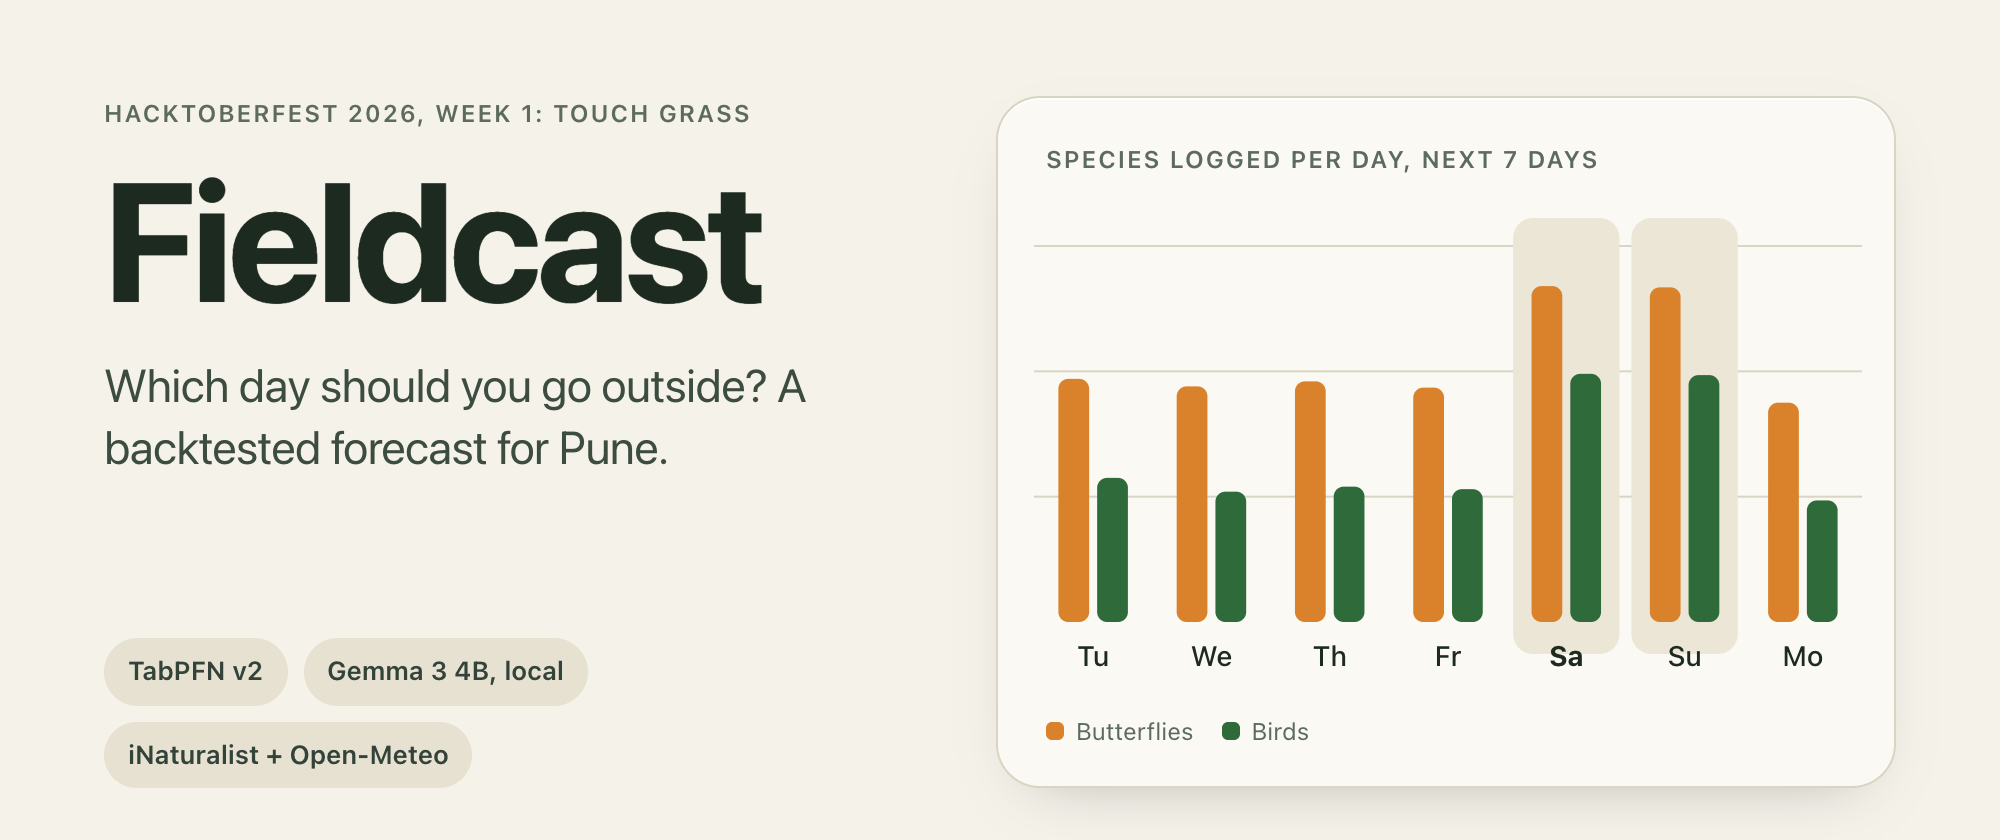
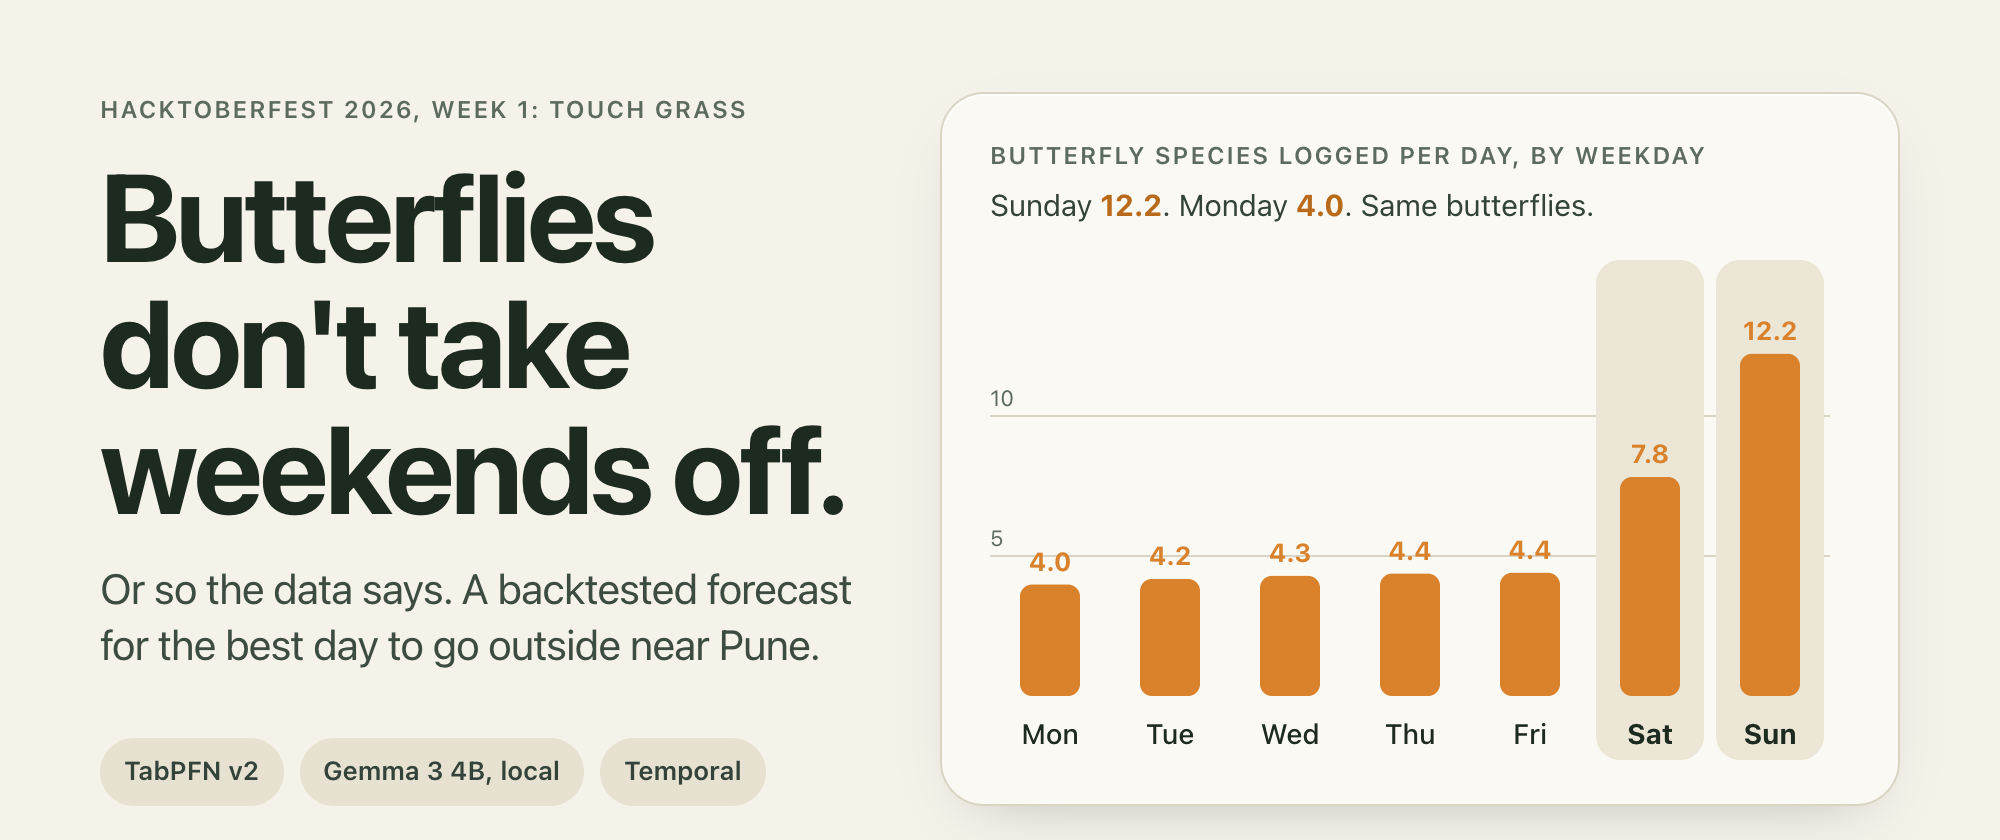
Add Temporal workflow, weekend ablation, Sentry-optional tracing and updated card

diff --git a/card.html b/card.html
@@ -15,9 +15,7 @@ small{color:var(--mute);display:block;margin-top:1.5rem}
 </style><main>
 <h1>Saturday, 10-10</h1>
 <p class=sub>Best day this week near Pune. Max 34.8 C, rain 0.0 mm.</p>
-<p class=card>Saturday, October 10th, 2026 will be warm with a high of 34.8 degrees Celsius. Focus your attention on observing butterflies, particularly the Lemon Migrant, Lemon Pansy, Common Mormon Swallowtail, and Red Pierrot.  Begin by searching for butterflies and then observe the diverse birdlife expected by local observers. 
-
-Remember to disconnect and fully immerse yourself in the natural surroundings.</p>
+<p class=card>Saturday, October 10th, 2026, promises warm weather with a maximum temperature of 34.8 degrees Celsius and no rain. Focus your attention on observing the most frequently reported butterflies, starting with the Lemon Migrant, followed by the Lemon Pansy and Common Mormon Swallowtail. Remember to disconnect from your devices and fully immerse yourself in the natural surroundings.</p>
 <p><b>Likely to be seen:</b> Lemon Migrant (97%), Lemon Pansy (87%), Common Mormon Swallowtail (77%), Red Pierrot (66%)</p>
 <table><tr><th>Day<th>Max C<th>Rain mm<th>Butterfly spp<th>Bird spp</tr><tr><td>Tue 10-06</td><td>33.3</td><td>0.2</td><td>19</td><td>12</td></tr><tr><td>Wed 10-07</td><td>33.6</td><td>0.0</td><td>19</td><td>10</td></tr><tr><td>Thu 10-08</td><td>33.0</td><td>1.2</td><td>19</td><td>11</td></tr><tr><td>Fri 10-09</td><td>34.9</td><td>0.0</td><td>19</td><td>11</td></tr><tr><td>Sat 10-10</td><td>34.8</td><td>0.0</td><td>27</td><td>20</td></tr><tr><td>Sun 10-11</td><td>34.1</td><td>0.0</td><td>27</td><td>20</td></tr><tr><td>Mon 10-12</td><td>33.4</td><td>0.0</td><td>18</td><td>10</td></tr></table>
 <small>Forecast 2026-10-06. TabPFN trained on iNaturalist research-grade sightings and Open-Meteo weather; prose by Gemma running locally. Probabilities are chances a species is logged that day, not guarantees.</small>

diff --git a/card.py b/card.py
@@ -3,10 +3,29 @@ local Gemma (Ollama) only writes the prose around them, so it cannot invent a fo
 Run: .venv/bin/python card.py  -> card.html"""
 import html
 import json
+import re
+import sys
 
 import requests
+import sentry_sdk
+
+import tracing
 
 MODEL = "gemma3:4b"
+TRIES = 5
+PROMPT = ("You write a pocket field card for a nature walk near Pune, India. Use ONLY the facts below. "
+          "Do not add numbers, species or places that are not listed. No emojis, no markdown, no em dashes. "
+          "Write 3 short sentences: why this day, what to look for and in what order, then one reminder to put the phone away.\n")
+
+
+def likely_for(d):
+    return ", ".join(f"{k} ({round(v * 100)}%)" for k, v in d["likely"].items())
+
+
+def facts_for(d):
+    return (f"Day: {d['weekday']} {d['date']}. Max temperature {d['tmax']} C. Rain {d['rain_mm']} mm.\n"
+            f"Model expects about {d['butterfly_species']:.0f} butterfly species and {d['bird_species']:.0f} bird species logged today by local observers.\n"
+            f"Most likely to be logged: {likely_for(d)}.")
 
 
 def best(days):
@@ -15,24 +34,70 @@ def best(days):
 
 
 def gemma(prompt):
-    r = requests.post("http://localhost:11434/api/generate", timeout=300,
-                      json={"model": MODEL, "prompt": prompt, "stream": False, "options": {"temperature": 0.4, "num_predict": 220}})
-    r.raise_for_status()
-    return r.json()["response"].strip()
+    with sentry_sdk.start_span(op="gen_ai.chat", name=f"chat {MODEL}") as span:
+        for k, v in {"gen_ai.operation.name": "chat", "gen_ai.system": "ollama", "gen_ai.request.model": MODEL,
+                     "gen_ai.request.temperature": 0.4, "gen_ai.request.messages": json.dumps([{"role": "user", "content": prompt}])}.items():
+            span.set_data(k, v)
+        r = requests.post("http://localhost:11434/api/generate", timeout=300,
+                          json={"model": MODEL, "prompt": prompt, "stream": False, "options": {"temperature": 0.4, "num_predict": 220}})
+        r.raise_for_status()
+        j = r.json()
+        text = j["response"].strip()
+        span.set_data("gen_ai.usage.input_tokens", j["prompt_eval_count"])
+        span.set_data("gen_ai.usage.output_tokens", j["eval_count"])
+        span.set_data("gen_ai.usage.total_tokens", j["prompt_eval_count"] + j["eval_count"])
+        span.set_data("gen_ai.response.text", json.dumps([text]))
+        span.set_data("fieldcast.tokens_per_second", round(j["eval_count"] / (j["eval_duration"] / 1e9), 1))
+        return text
+
+
+def problems(text, facts):
+    """Rules the card must satisfy: no number Gemma was not given, exactly three sentences."""
+    with sentry_sdk.start_span(op="gen_ai.execute_tool", name="execute_tool check_card") as span:
+        out = []
+        bad = sorted(set(re.findall(r"\d+(?:\.\d+)?", text)) - set(re.findall(r"\d+(?:\.\d+)?", facts)))
+        if bad:
+            out.append(f"invented numbers {bad}")
+        n = len(re.findall(r"[.!?](?:\s|$)", text))
+        if n != 3:
+            out.append(f"{n} sentences")
+        span.set_data("gen_ai.tool.name", "check_card")
+        span.set_data("gen_ai.tool.output", json.dumps(out))
+        return out
+
+
+def write(d, facts, likely):
+    """Ask Gemma, reject a card that breaks the rules, retry, then fall back to a plain template."""
+    prompt = PROMPT + facts
+    for attempt in range(1, TRIES + 1):
+        text = gemma(prompt)
+        bad = problems(text, facts)
+        if not bad:
+            return text
+        sentry_sdk.capture_message(f"Gemma card rejected: {bad} (attempt {attempt}/{TRIES})", level="warning")
+    return (f"{d['weekday']} looks best this week: {d['tmax']} C and {d['rain_mm']} mm of rain. "
+            f"Look for {likely.split(',')[0].split(' (')[0]} first. Put the phone away and go.")
+
+
+def bench(n):
+    """Run Gemma n times on this week's facts with no retry and count how often each rule is broken."""
+    d = best(json.load(open("forecast.json"))["days"])
+    facts = facts_for(d)
+    broke = {"invented numbers": 0, "sentences": 0}
+    for i in range(n):
+        out = problems(gemma(PROMPT + facts), facts)
+        for k in broke:
+            broke[k] += any(p.startswith(k) or (k == "sentences" and "sentences" in p) for p in out)
+        print(i + 1, out or "clean", flush=True)
+    print(f"of {n} runs: {broke}")
 
 
 def main():
     f = json.load(open("forecast.json"))
     d = best(f["days"])
-    likely = ", ".join(f"{k} ({round(v * 100)}%)" for k, v in d["likely"].items())
-    prompt = (
-        "You write a pocket field card for a nature walk near Pune, India. Use ONLY the facts below. "
-        "Do not add numbers, species or places that are not listed. No emojis, no markdown, no em dashes. "
-        "Write 3 short sentences: why this day, what to look for and in what order, then one reminder to put the phone away.\n"
-        f"Day: {d['weekday']} {d['date']}. Max temperature {d['tmax']} C. Rain {d['rain_mm']} mm.\n"
-        f"Model expects about {d['butterfly_species']:.0f} butterfly species and {d['bird_species']:.0f} bird species logged today by local observers.\n"
-        f"Most likely to be logged: {likely}.")
-    text = gemma(prompt)
+    likely = likely_for(d)
+    with sentry_sdk.start_transaction(name="invoke_agent fieldcast-card", op="gen_ai.invoke_agent"):
+        text = write(d, facts_for(d), likely)
     rows = "".join(f"<tr><td>{x['weekday'][:3]} {x['date'][5:]}</td><td>{x['tmax']}</td><td>{x['rain_mm']}</td>"
                    f"<td>{x['butterfly_species']:.0f}</td><td>{x['bird_species']:.0f}</td></tr>" for x in f["days"])
     page = f"""<!doctype html><meta charset=utf-8><meta name=viewport content="width=device-width,initial-scale=1">
@@ -59,7 +124,10 @@ small{{color:var(--mute);display:block;margin-top:1.5rem}}
 </main>"""
     open("card.html", "w").write(page)
     print(text)
+    return "card.html"
 
 
 if __name__ == "__main__":
-    main()
+    tracing.init()
+    bench(int(sys.argv[2])) if sys.argv[1:2] == ["--bench"] else main()
+    sentry_sdk.flush()

diff --git a/workflow.py b/workflow.py
@@ -1,0 +1,103 @@
+"""Durable Fieldcast pipeline on Temporal: fetch -> (backtest) -> forecast -> card.
+Each step is an activity with retries; the iNaturalist fetch heartbeats and resumes from its page checkpoint.
+Run:  temporal server start-dev                 (terminal 1, UI at http://localhost:8233)
+      .venv/bin/python workflow.py worker       (terminal 2)
+      .venv/bin/python workflow.py run          (terminal 3; add --backtest to rerun the held-out year)"""
+import asyncio
+import sys
+from datetime import timedelta
+
+from temporalio import activity, workflow
+from temporalio.client import Client
+from temporalio.common import RetryPolicy
+from temporalio.worker import Worker
+
+with workflow.unsafe.imports_passed_through():
+    import pandas as pd
+    import tracing
+
+QUEUE = "fieldcast"
+GROUPS = {"butterfly": 47224, "bird": 3}  # iNaturalist taxon ids: Papilionoidea, Aves
+
+
+async def beat(fn, *args):
+    """Run blocking code in a thread and heartbeat until it ends, so Temporal can tell a slow step from a dead one."""
+    task = asyncio.create_task(asyncio.to_thread(fn, *args))
+    while not task.done():
+        activity.heartbeat()
+        await asyncio.wait({task}, timeout=10)
+    return task.result()
+
+
+@activity.defn
+async def fetch_obs(group: str) -> int:
+    import fetch
+    rows = await beat(fetch.observations, GROUPS[group], group)
+    pd.DataFrame(rows, columns=["id", "date", "sci", "common", "group"]).to_parquet(fetch.OUT / f"obs_{group}.parquet", index=False)
+    return len(rows)
+
+
+@activity.defn
+async def fetch_weather() -> int:
+    import fetch
+    w = await beat(fetch.weather)
+    w.to_parquet(fetch.OUT / "weather.parquet", index=False)
+    return len(w)
+
+
+@activity.defn
+async def merge_obs() -> int:
+    import fetch
+    obs = pd.concat([pd.read_parquet(fetch.OUT / f"obs_{g}.parquet") for g in GROUPS])
+    obs["date"] = pd.to_datetime(obs["date"])
+    obs.to_parquet(fetch.OUT / "obs.parquet", index=False)
+    return len(obs)
+
+
+@activity.defn
+async def run_backtest() -> str:
+    import model
+    await beat(model.backtest)
+    return "metrics.json"
+
+
+@activity.defn
+async def run_forecast() -> str:
+    import model
+    await beat(model.forecast)
+    return "forecast.json"
+
+
+@activity.defn
+async def make_card() -> str:
+    import card
+    return await beat(card.main)
+
+
+@workflow.defn
+class Fieldcast:
+    @workflow.run
+    async def run(self, backtest: bool = False) -> str:
+        step = dict(start_to_close_timeout=timedelta(hours=1), heartbeat_timeout=timedelta(minutes=2),
+                    retry_policy=RetryPolicy(initial_interval=timedelta(seconds=5), backoff_coefficient=2, maximum_attempts=8))
+        await asyncio.gather(*[workflow.execute_activity(fetch_obs, g, **step) for g in GROUPS],
+                             workflow.execute_activity(fetch_weather, **step))
+        await workflow.execute_activity(merge_obs, **step)
+        if backtest:
+            await workflow.execute_activity(run_backtest, **step)
+        await workflow.execute_activity(run_forecast, **step)
+        return await workflow.execute_activity(make_card, **step)
+
+
+async def main():
+    client = await Client.connect("localhost:7233")
+    if sys.argv[1] == "worker":
+        tracing.init()
+        await Worker(client, task_queue=QUEUE, workflows=[Fieldcast],
+                     activities=[fetch_obs, fetch_weather, merge_obs, run_backtest, run_forecast, make_card]).run()
+    else:
+        print(await client.execute_workflow(Fieldcast.run, "--backtest" in sys.argv, id="fieldcast", task_queue=QUEUE))
+
+
+if __name__ == "__main__":
+    asyncio.run(main())

diff --git a/fetch.py b/fetch.py
@@ -1,5 +1,6 @@
 """Pull research-grade iNaturalist observations near Pune and daily weather from Open-Meteo.
 Output: data/obs.parquet (one row per observation) and data/weather.parquet (one row per day)."""
+import json
 import time
 from pathlib import Path
 
@@ -13,7 +14,15 @@ OUT.mkdir(exist_ok=True)
 
 
 def observations(taxon_id, name):
-    rows, id_above = [], 0
+    ckpt = OUT / f"ckpt_{name}.jsonl"  # one line per page, so a crashed run resumes at the last full page
+    rows = []
+    if ckpt.exists():
+        for line in ckpt.read_text().splitlines():
+            try:
+                rows += [tuple(r) for r in json.loads(line)]
+            except ValueError:
+                pass  # half-written last line from a killed process
+    id_above = max((r[0] for r in rows), default=0)
     while True:
         r = requests.get("https://api.inaturalist.org/v1/observations", timeout=60, params={
             "lat": LAT, "lng": LNG, "radius": RADIUS_KM, "quality_grade": "research", "taxon_id": taxon_id,
@@ -22,8 +31,11 @@ def observations(taxon_id, name):
         res = r.json()["results"]
         if not res:
             break
-        rows += [(o["id"], o["observed_on"], o["taxon"]["name"] if o.get("taxon") else None,
-                  o["taxon"].get("preferred_common_name") if o.get("taxon") else None, name) for o in res if o.get("observed_on")]
+        page = [(o["id"], o["observed_on"], o["taxon"]["name"] if o.get("taxon") else None,
+                 o["taxon"].get("preferred_common_name") if o.get("taxon") else None, name) for o in res if o.get("observed_on")]
+        with ckpt.open("a") as f:
+            f.write(json.dumps(page) + "\n")
+        rows += page
         id_above = res[-1]["id"]
         print(f"{name}: {len(rows)}", flush=True)
         time.sleep(1)  # iNaturalist asks for at most ~1 request per second

diff --git a/ablate.py b/ablate.py
@@ -1,0 +1,29 @@
+"""Does TabPFN still beat the baselines with the weekend flag removed? Prints Spearman, best-day lift and how often the pick is a Saturday or Sunday."""
+import json
+
+import numpy as np
+from scipy.stats import spearmanr
+
+import model
+
+obs, w = model.load()
+tr, te = w[w.date < model.CUT], w[w.date >= model.CUT]
+wk = te.date.dt.isocalendar().week.to_numpy()
+out = {}
+for flag in (True, False):
+    feats = [f for f in model.FEATS if flag or f != "weekend"]
+    for g in ("butterfly", "bird"):
+        yt = te[f"{g}_species"].to_numpy()
+        pred = np.expm1(model.reg(tr[feats], np.log1p(tr[f"{g}_species"])).predict(te[feats]))
+        lift, wkend = [], []
+        for k in np.unique(wk):
+            i = np.where(wk == k)[0]
+            if len(i) >= 5 and yt[i].mean() > 0:
+                j = i[np.argmax(pred[i])]
+                lift.append(yt[j] / yt[i].mean())
+                wkend.append(te.iloc[j]["weekend"])
+        out[f"{g}_{'with' if flag else 'without'}_weekend"] = {
+            "spearman": round(float(spearmanr(pred, yt)[0]), 3), "best_day_lift": round(float(np.mean(lift)), 3),
+            "pick_is_weekend": f"{int(sum(wkend))} of {len(wkend)} weeks"}
+        print(g, flag, out[f"{g}_{'with' if flag else 'without'}_weekend"], flush=True)
+json.dump(out, open("ablation.json", "w"), indent=1)

diff --git a/model.py b/model.py
@@ -2,6 +2,7 @@
 Run:  .venv/bin/python model.py backtest   -> prints metrics, writes metrics.json
       .venv/bin/python model.py forecast   -> writes forecast.json (next 7 days, from Open-Meteo forecast)"""
 import json
+import os
 import sys
 
 import numpy as np
@@ -11,6 +12,7 @@ from huggingface_hub import hf_hub_download
 from scipy.stats import spearmanr
 from sklearn.ensemble import HistGradientBoostingRegressor
 from sklearn.metrics import roc_auc_score
+os.environ.setdefault("TABPFN_ALLOW_CPU_LARGE_DATASET", "1")  # 2,469 rows is over TabPFN's CPU guard
 from tabpfn import TabPFNClassifier, TabPFNRegressor
 
 LAT, LNG = 18.52, 73.86

diff --git a/tracing.py b/tracing.py
@@ -1,0 +1,9 @@
+"""Sentry agent tracing. Off unless SENTRY_DSN is set, so the project still runs with no account."""
+import os
+
+import sentry_sdk
+
+
+def init():
+    if os.environ.get("SENTRY_DSN"):
+        sentry_sdk.init(dsn=os.environ["SENTRY_DSN"], traces_sample_rate=1.0, send_default_pii=False, release="fieldcast@1")

diff --git a/README.md b/README.md
@@ -2,6 +2,10 @@
 
 Which day this week is best to go outside near Pune, and what will you probably see. TabPFN forecasts daily butterfly and bird species counts from weather and calendar. Local Gemma writes a one-page printable card.
 
+Finding that shaped the project: observers log 2.6 times more observations on weekends, so a forecast of logged species is largely a forecast of people. `ablate.py` removes the weekend flag and shows how much of the skill disappears.
+
+![](assets/weekday-effect.png)
+
 ```
 python3.11 -m venv .venv && .venv/bin/pip install -r requirements.txt
 brew install ollama && ollama serve & ollama pull gemma3:4b
@@ -9,6 +13,16 @@ brew install ollama && ollama serve & ollama pull gemma3:4b
 TABPFN_ALLOW_CPU_LARGE_DATASET=1 .venv/bin/python model.py backtest   # about 10 min, writes metrics.json
 TABPFN_ALLOW_CPU_LARGE_DATASET=1 .venv/bin/python model.py forecast   # about 9 min, writes forecast.json
 .venv/bin/python card.py                                   # writes card.html
+```
+
+Durable run (survives a killed worker, resumes the fetch from its page checkpoint), with the optional Sentry tracing of the Gemma step:
+
+```
+temporal server start-dev                       # terminal 1, UI at http://localhost:8233
+.venv/bin/python workflow.py worker             # terminal 2, set SENTRY_DSN first to send traces
+.venv/bin/python workflow.py run                # terminal 3, add --backtest to rerun the held-out year
+.venv/bin/python card.py --bench 30             # runs Gemma 30 times and counts rule breaks
+TABPFN_ALLOW_CPU_LARGE_DATASET=1 .venv/bin/python ablate.py   # weekend-flag ablation, writes ablation.json
 ```
 
 ## Screenshots
